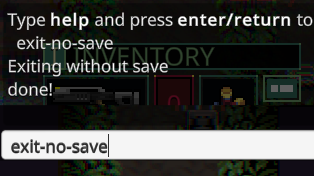
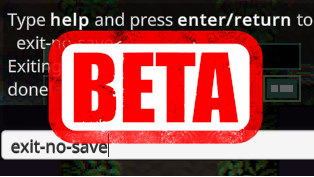
WIP

diff --git a/src/Plugin.cs b/src/Plugin.cs
@@ -23,45 +23,9 @@ namespace QM_ExitWithoutSaveCommand
         [Hook(ModHookType.AfterConfigsLoaded)]
         public static void AfterConfig(IModContext context)
         {
-            InjectCommand(typeof(ExitWithoutSaveCommand), ExitWithoutSaveCommand.CommandName);
-
             new Harmony("_" + ModAssemblyName).PatchAll();
         }
 
-        public static void InjectCommand(Type commandType, string name)
-        {
-
-            ConsoleDaemon consoleDaemon = ConsoleDaemon.Instance;
-
-            if (consoleDaemon == null) return;
-
-
-            MethodInfo helpMethod = commandType.GetMethod("Help", BindingFlags.Static | BindingFlags.Public, null, CallingConventions.Standard, new Type[2]
-            {
-                typeof(string),
-                typeof(bool)
-            }, null);
-
-            MethodInfo fetchAutocompleteMethod = commandType.GetMethod("FetchAutocompleteOptions", BindingFlags.Static | BindingFlags.Public, null, CallingConventions.Standard, new Type[2]
-{
-                typeof(string),
-                typeof(string[])
-}, null);
-
-            if (helpMethod == null && fetchAutocompleteMethod == null) return;
-
-            MethodInfo isAvailableMethod = commandType.GetMethod("IsAvailable", BindingFlags.Static | BindingFlags.Public, null, CallingConventions.Standard, new Type[0], null);
-            MethodInfo showInHelpAndAutocompleteMethod = commandType.GetMethod("ShowInHelpAndAutocomplete", BindingFlags.Static | BindingFlags.Public, null, CallingConventions.Standard, new Type[0], null);
-
-
-
-            consoleDaemon.Commands[name.ToLower()] = new CommandInterface(commandType, consoleDaemon.Resolve, helpMethod, fetchAutocompleteMethod,
-                isAvailableMethod, showInHelpAndAutocompleteMethod);
-
-            //Seems to always set this, even without alts.
-            //Oddly does not do a ToLower
-            consoleDaemon.AlternateCommandNames[name] = name;
-        }
 
 
 

diff --git a/src/ExitWithoutSaveCommand.cs b/src/ExitWithoutSaveCommand.cs
@@ -4,7 +4,7 @@ using UnityEngine;
 
 namespace QM_ExitWithoutSaveCommand
 {
-    //[ConsoleCommand(new string[] { "exit-no-save" })]
+    [ConsoleCommand(new string[] { "exit-no-save" })]
     public class ExitWithoutSaveCommand
     {
         public static string CommandName { get; set; } = "exit-no-save";
@@ -16,17 +16,20 @@ namespace QM_ExitWithoutSaveCommand
 
         public string Execute(string[] tokens)
         {
+            ConsoleDaemon dameon = UI.Get<DevConsole>().Daemon; 
+
             if (!IsAvailable())
             {
-                DevConsoleUI.Instance.PrintText($"Cannot execute, not in dungeon mode");
+                dameon.PrintText($"Cannot execute, not in dungeon mode");
                 return "";
             }
 
             SaveManager_Save_Patch.DoNotSave = true;
 
 
-            DevConsoleUI.Instance.PrintText($"Exiting without save");
-            SharedUi._instance._escScreen.Hide();
+            dameon.PrintText($"Exiting without save");
+
+            UI.Hide<EscScreen>();
 
             SingletonMonoBehaviour<DungeonGameMode>.Instance.FinishGame(new DungeonFinishedData
             {
@@ -37,7 +40,7 @@ namespace QM_ExitWithoutSaveCommand
             {
                 string errmsg = $"The DoNotSave flag was not reset after expected save event";
                 Debug.LogError(errmsg);
-                DevConsoleUI.Instance.PrintText($"Failed!  {errmsg}");
+                dameon.PrintText($"Failed!  {errmsg}");
             }
 
             return "done!";

diff --git a/src/Properties/AssemblyInfo.cs b/src/Properties/AssemblyInfo.cs
@@ -32,5 +32,5 @@ using System.Runtime.InteropServices;
 // You can specify all the values or you can default the Build and Revision Numbers
 // by using the '*' as shown below:
 // [assembly: AssemblyVersion("1.0.*")]
-[assembly: AssemblyVersion("1.0.0.0")]
-[assembly: AssemblyFileVersion("1.0.0.0")]
+[assembly: AssemblyVersion("1.1.0.0")]
+[assembly: AssemblyFileVersion("1.1.0.0")]

diff --git a/README.md b/README.md
@@ -2,6 +2,16 @@
 
 ![thumbnail icon](media/thumbnail.png)
 
+# Important - This is only for the opt in beta version of the game!
+
+This is a temporary version that supports the 0.8.6 beta, and not the current game's version.
+The non beta version *must* be uninstalled.  
+When the 0.8.6 becomes the main version, this mod will be deleted.
+Note that the beta is expected to change many times before release.
+As such, this mod may break on each beta release.
+
+# Docs
+
 A console command to exit a dungeon (combat) without saving. 
 
 This allows developers to test the same scenario without restarting the game.
